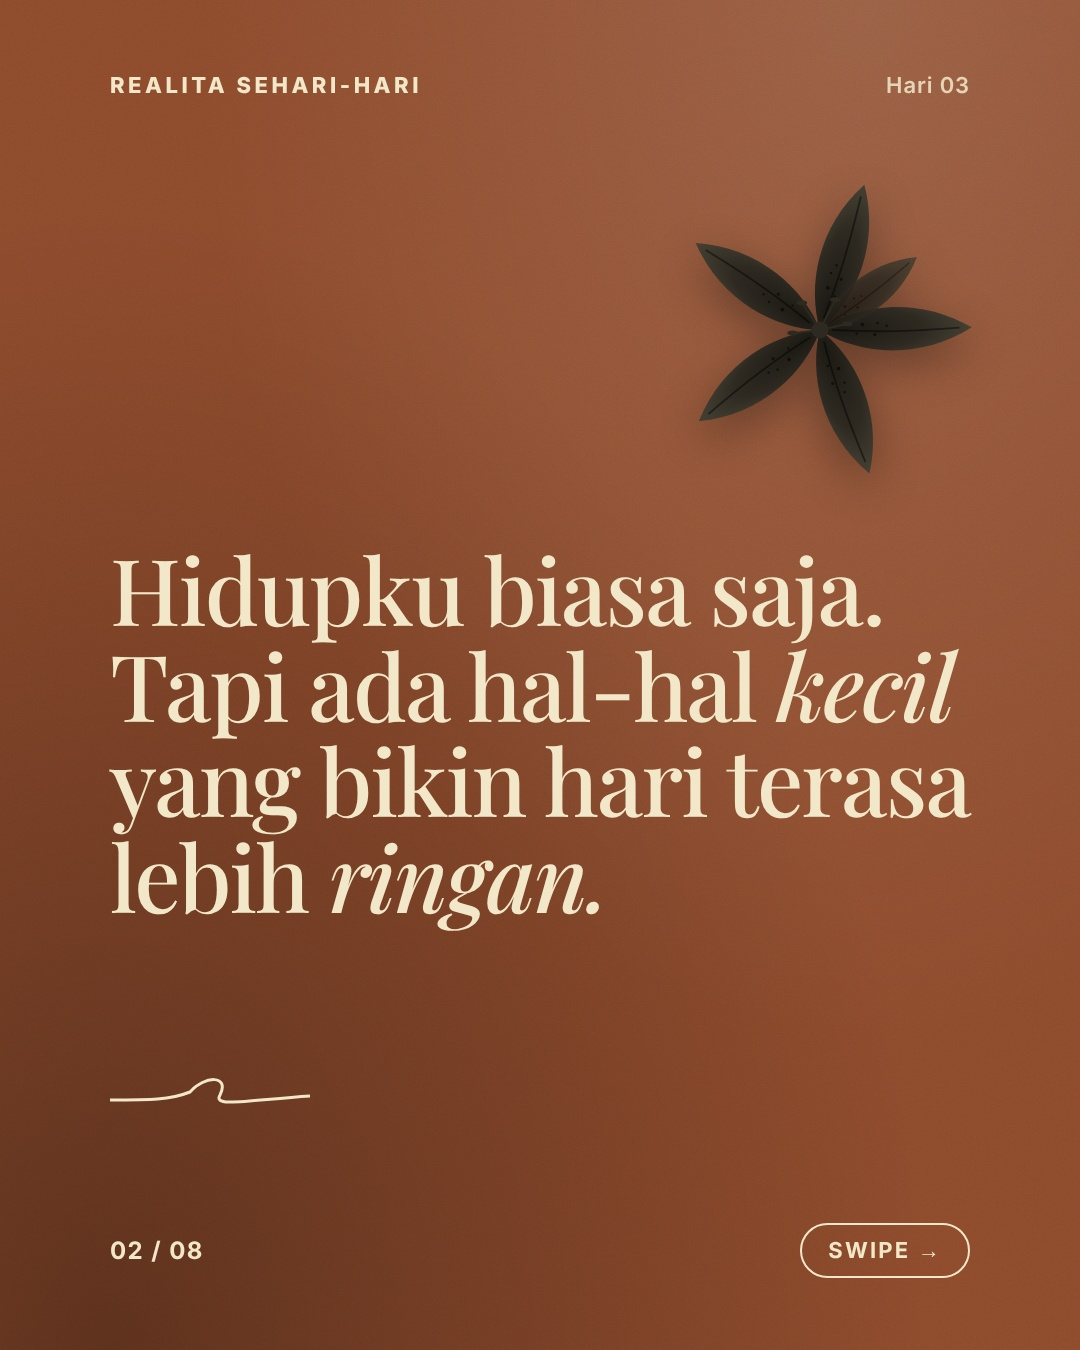
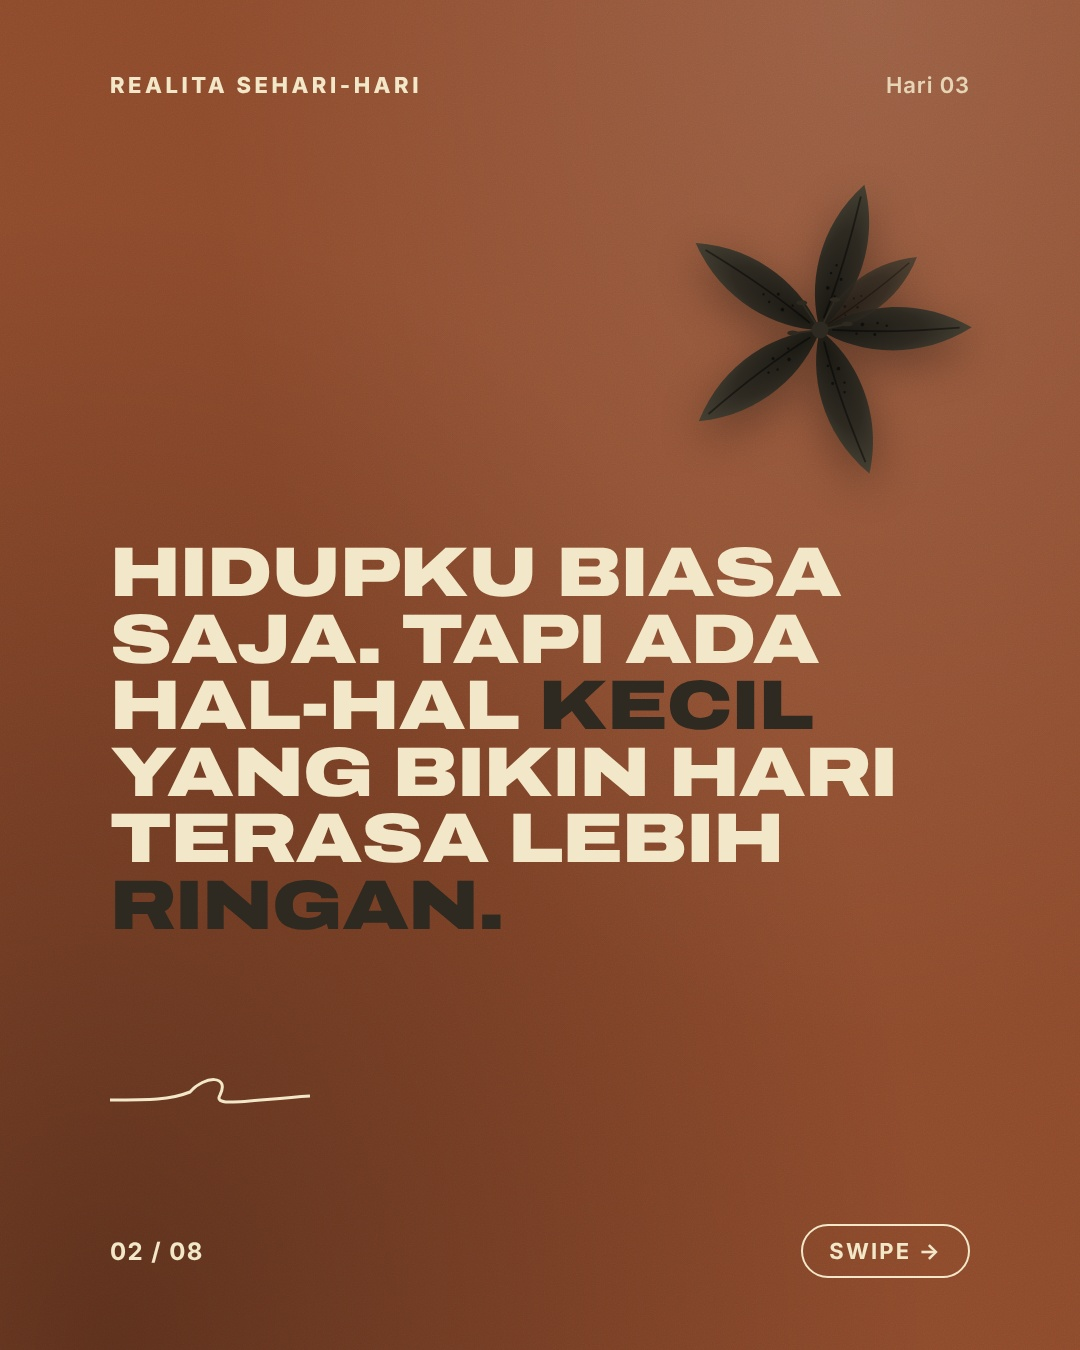
Use wide bold display font for Hari 3 carousel headlines
Claude-Session: https://claude.ai/code/session_01Aizai9SxLuPQy71PnL1sYN

Changed region(s): [[0.0917, 0.4044, 0.9167, 0.7156], [0.7333, 0.9022, 0.8861, 0.9333], [0.1528, 0.9022, 0.1833, 0.9333]]

diff --git a/carousel/hari-03/slides.html b/carousel/hari-03/slides.html
@@ -3,13 +3,13 @@
 <head>
 <meta charset="utf-8">
 <title>Hari 3 Carousel</title>
-<link href="https://fonts.googleapis.com/css2?family=Playfair+Display:ital,wght@0,500;0,600;1,500;1,600&family=Inter:wght@500;600;700;800&display=swap" rel="stylesheet">
+<link href="https://fonts.googleapis.com/css2?family=Archivo:wdth,wght@125,800;125,900&family=Inter:wght@500;600;700;800&display=swap" rel="stylesheet">
 <style>
   /* Palet warna brand */
   :root{--olive:#5A5A4E;--rust:#8C4A2C;--cream:#F2E8C9;--khaki:#E3C99C;--dark:#2E2A22}
   *{box-sizing:border-box;margin:0;padding:0}
   body{background:#444;display:flex;flex-direction:column;gap:40px;align-items:center;padding:40px}
-  .slide{width:1080px;height:1350px;position:relative;overflow:hidden;font-family:'Inter',sans-serif}
+  .slide{width:1080px;height:1350px;position:relative;overflow:hidden;font-family:'Helvetica Neue','Inter',sans-serif}
   /* tema per slide */
   .t-black{background:var(--olive);color:var(--cream);--accent:var(--khaki);--sub:rgba(242,232,201,.82)}
   .t-burgundy{background:var(--rust);color:var(--cream);--accent:var(--dark);--sub:rgba(242,232,201,.86)}
@@ -25,26 +25,26 @@
   .brand{position:absolute;top:72px;left:110px;z-index:3;font-weight:800;letter-spacing:.16em;font-size:22px}
   .tag{position:absolute;top:72px;right:110px;z-index:3;font-weight:600;font-size:22px;letter-spacing:.04em;color:var(--sub)}
   .flower{position:absolute;z-index:2;filter:drop-shadow(0 14px 22px rgba(0,0,0,.35))}
-  h1,h2{font-family:'Playfair Display',serif;font-weight:500;letter-spacing:-.02em;line-height:1.04}
-  h1 em,h2 em{font-style:italic}
+  h1,h2{font-family:'Druk Wide','Archivo',sans-serif;font-stretch:125%;font-weight:900;text-transform:uppercase;letter-spacing:-.01em;line-height:.95}
+  h1 em,h2 em{font-style:normal;color:var(--accent)}
   .t-white h1 em,.t-white h2 em,.t-black h1 em,.t-black h2 em{color:var(--accent)}
   .t-black h1 em,.t-black h2 em{color:var(--khaki)} /* burgundy lebih terang agar terbaca di hitam */
-  p{font-size:38px;line-height:1.35;font-weight:500;color:var(--sub)}
+  p{font-size:38px;line-height:1.35;font-weight:600;color:var(--sub)}
   p b{color:inherit;font-weight:700}
   .t-white p b{color:var(--dark)} .t-black p b,.t-burgundy p b{color:var(--cream)}
   .footer{position:absolute;bottom:72px;left:110px;right:110px;z-index:3;display:flex;justify-content:space-between;align-items:center;font-size:24px;font-weight:700;letter-spacing:.06em}
   .swipe{display:flex;align-items:center;gap:14px;border:2px solid currentColor;border-radius:40px;padding:12px 26px;font-size:22px;letter-spacing:.1em}
-  .cover h1{font-size:116px;position:absolute;left:110px;right:110px;top:560px}
+  .cover h1{font-size:92px;position:absolute;left:110px;right:70px;top:540px}
   .cover .bar{position:absolute;left:110px;top:980px;width:90px;height:6px;background:var(--khaki)}
   .cover p{position:absolute;left:110px;right:200px;top:1015px;font-weight:700;color:var(--cream)}
-  .context h2{font-size:92px;position:absolute;left:110px;right:110px;top:540px}
-  .num{position:absolute;left:110px;top:240px;font-family:'Playfair Display',serif;font-style:italic;font-size:300px;line-height:1;color:var(--accent)}
+  .context h2{font-size:70px;position:absolute;left:110px;right:110px;top:540px}
+  .num{position:absolute;left:100px;top:250px;font-family:'Druk Wide','Archivo',sans-serif;font-stretch:125%;font-weight:900;font-size:280px;line-height:1;letter-spacing:-.03em;color:var(--accent)}
   .t-black .num{color:var(--khaki)}
   .rule{position:absolute;left:110px;top:640px;width:120px;height:4px;background:var(--accent)}
   .t-black .rule{background:var(--khaki)}
-  .item h2{font-size:96px;position:absolute;left:110px;right:110px;top:690px}
+  .item h2{font-size:70px;position:absolute;left:110px;right:110px;top:690px}
   .item p{position:absolute;left:110px;right:150px;top:1030px}
-  .cta h2{font-size:108px;position:absolute;left:110px;right:110px;top:560px}
+  .cta h2{font-size:88px;position:absolute;left:110px;right:110px;top:560px}
   .cta .icons{position:absolute;left:110px;right:110px;top:920px;display:flex;flex-direction:column;gap:30px;font-size:34px;font-weight:600}
   .cta .icons div{display:flex;align-items:center;gap:26px}
   .cta svg.ic{width:46px;height:46px;stroke:currentColor;stroke-width:2.2;fill:none;flex:none}
